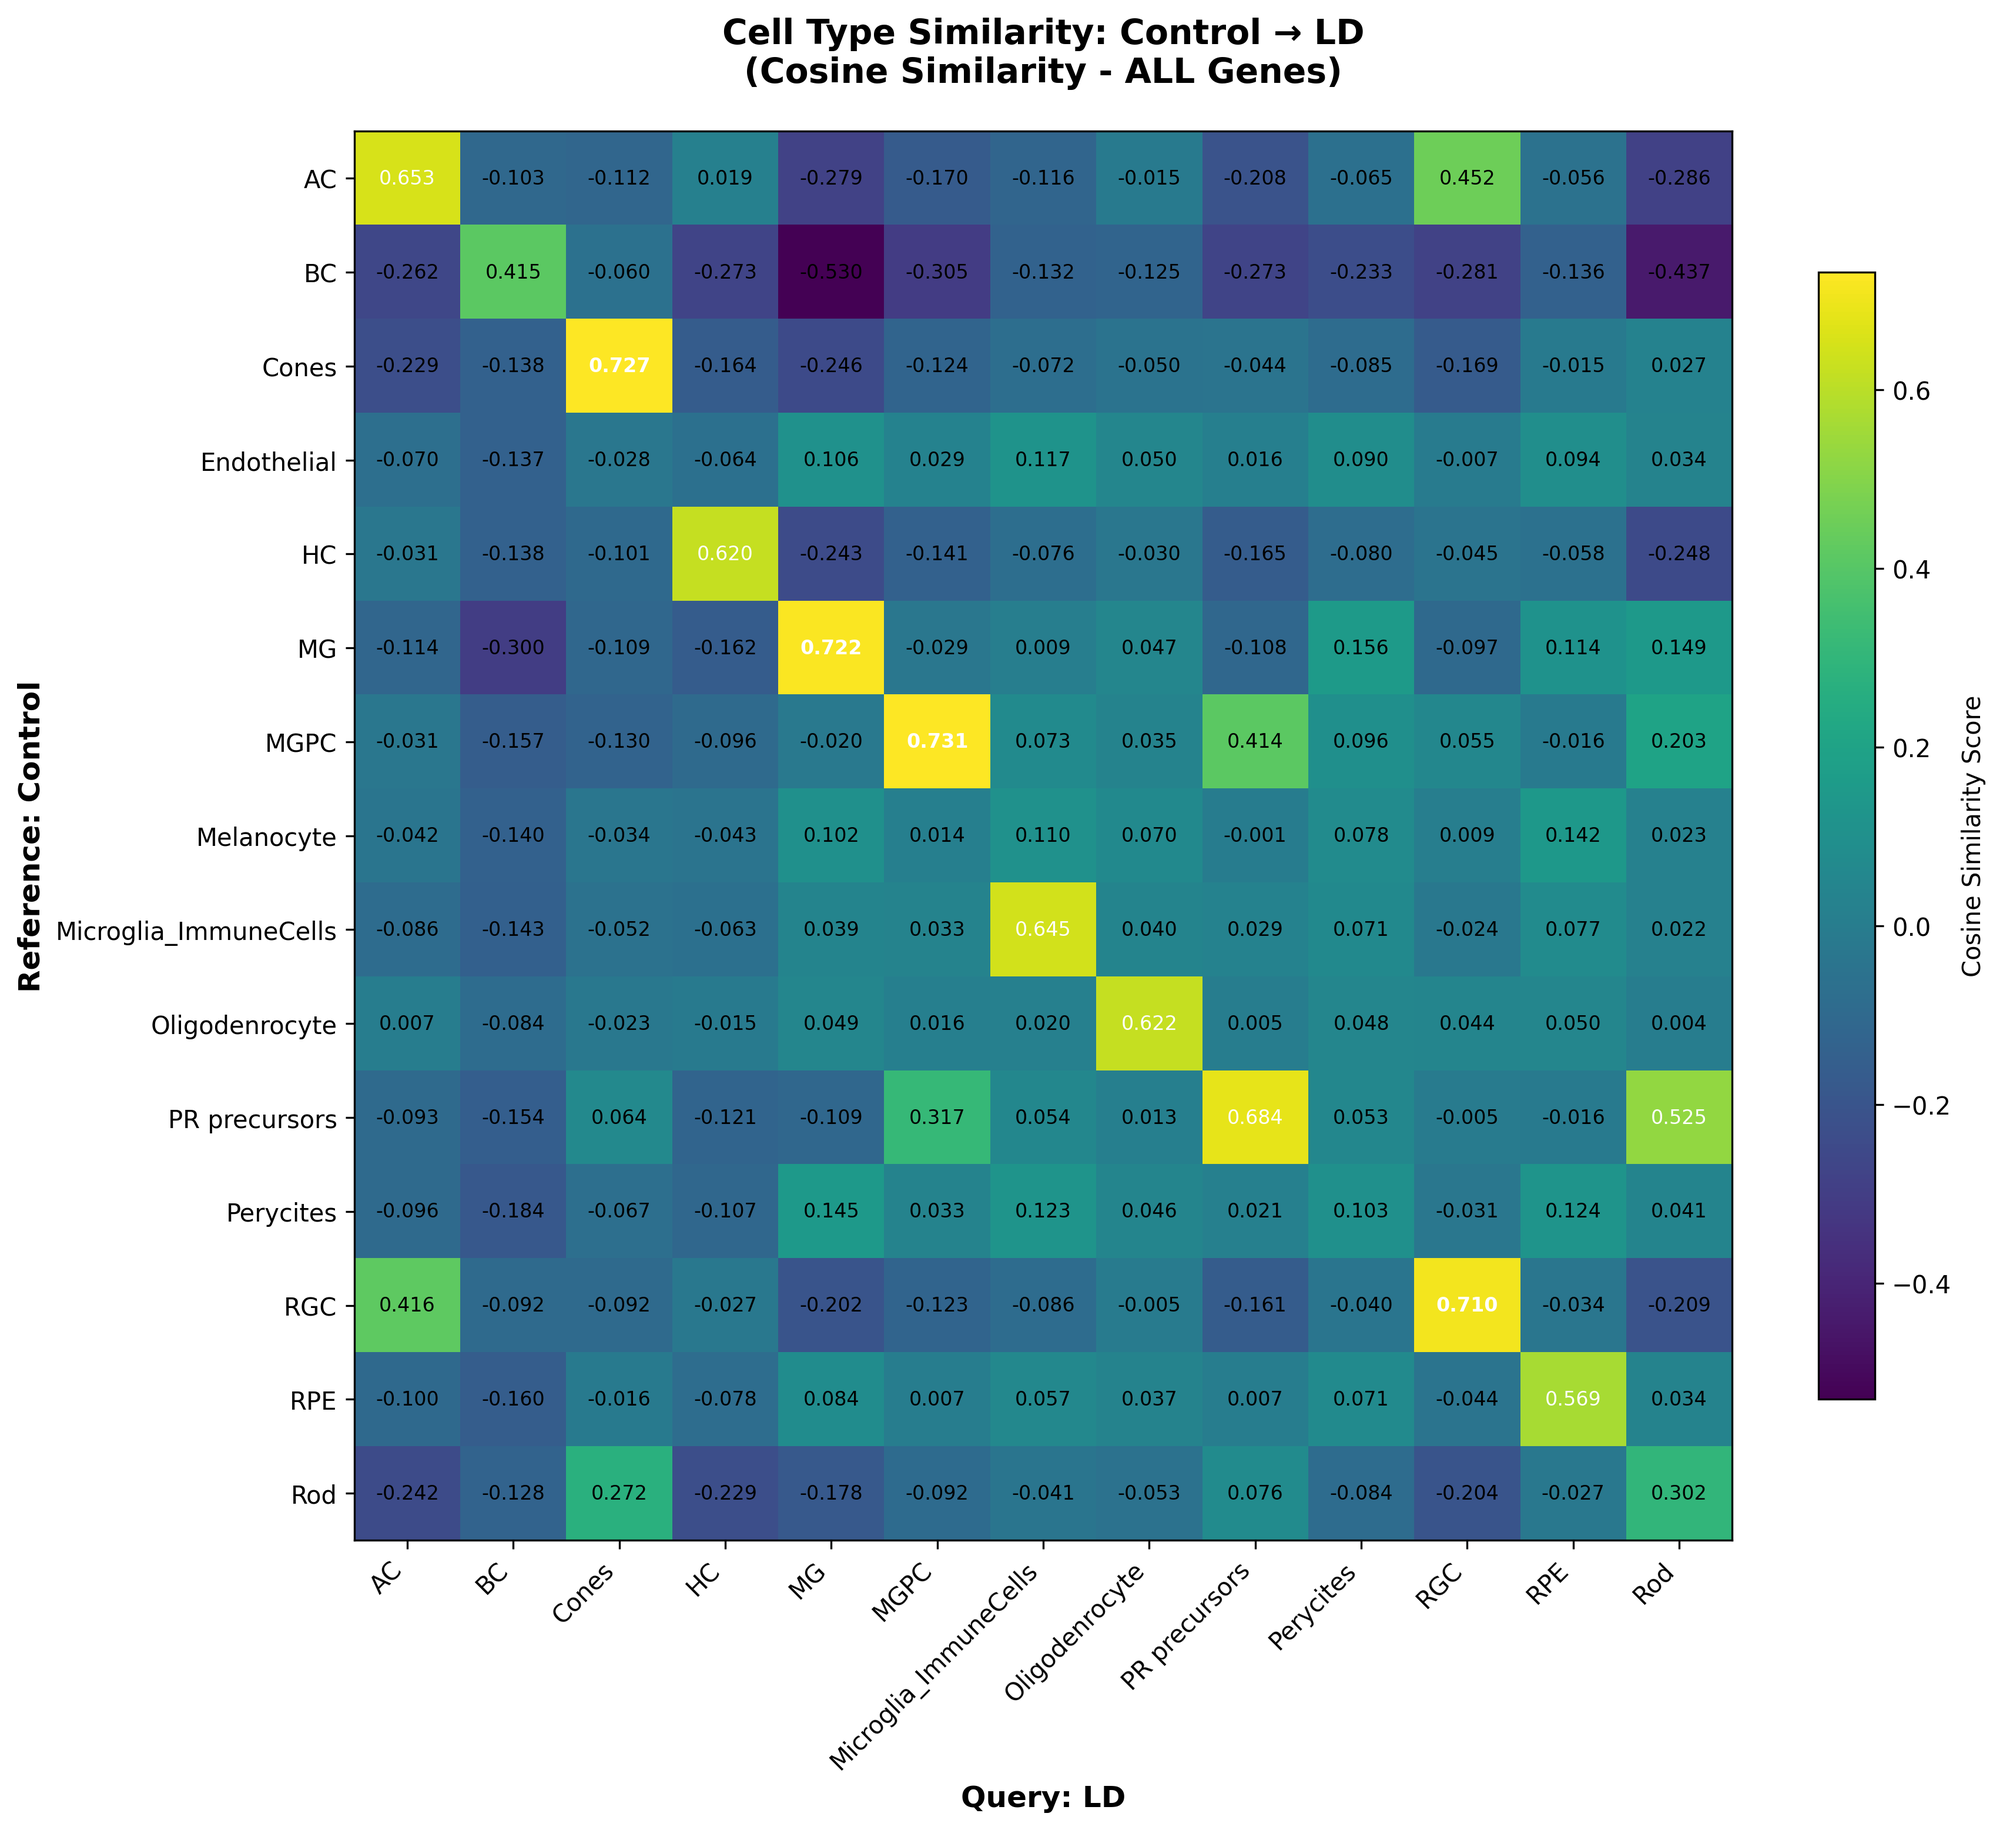
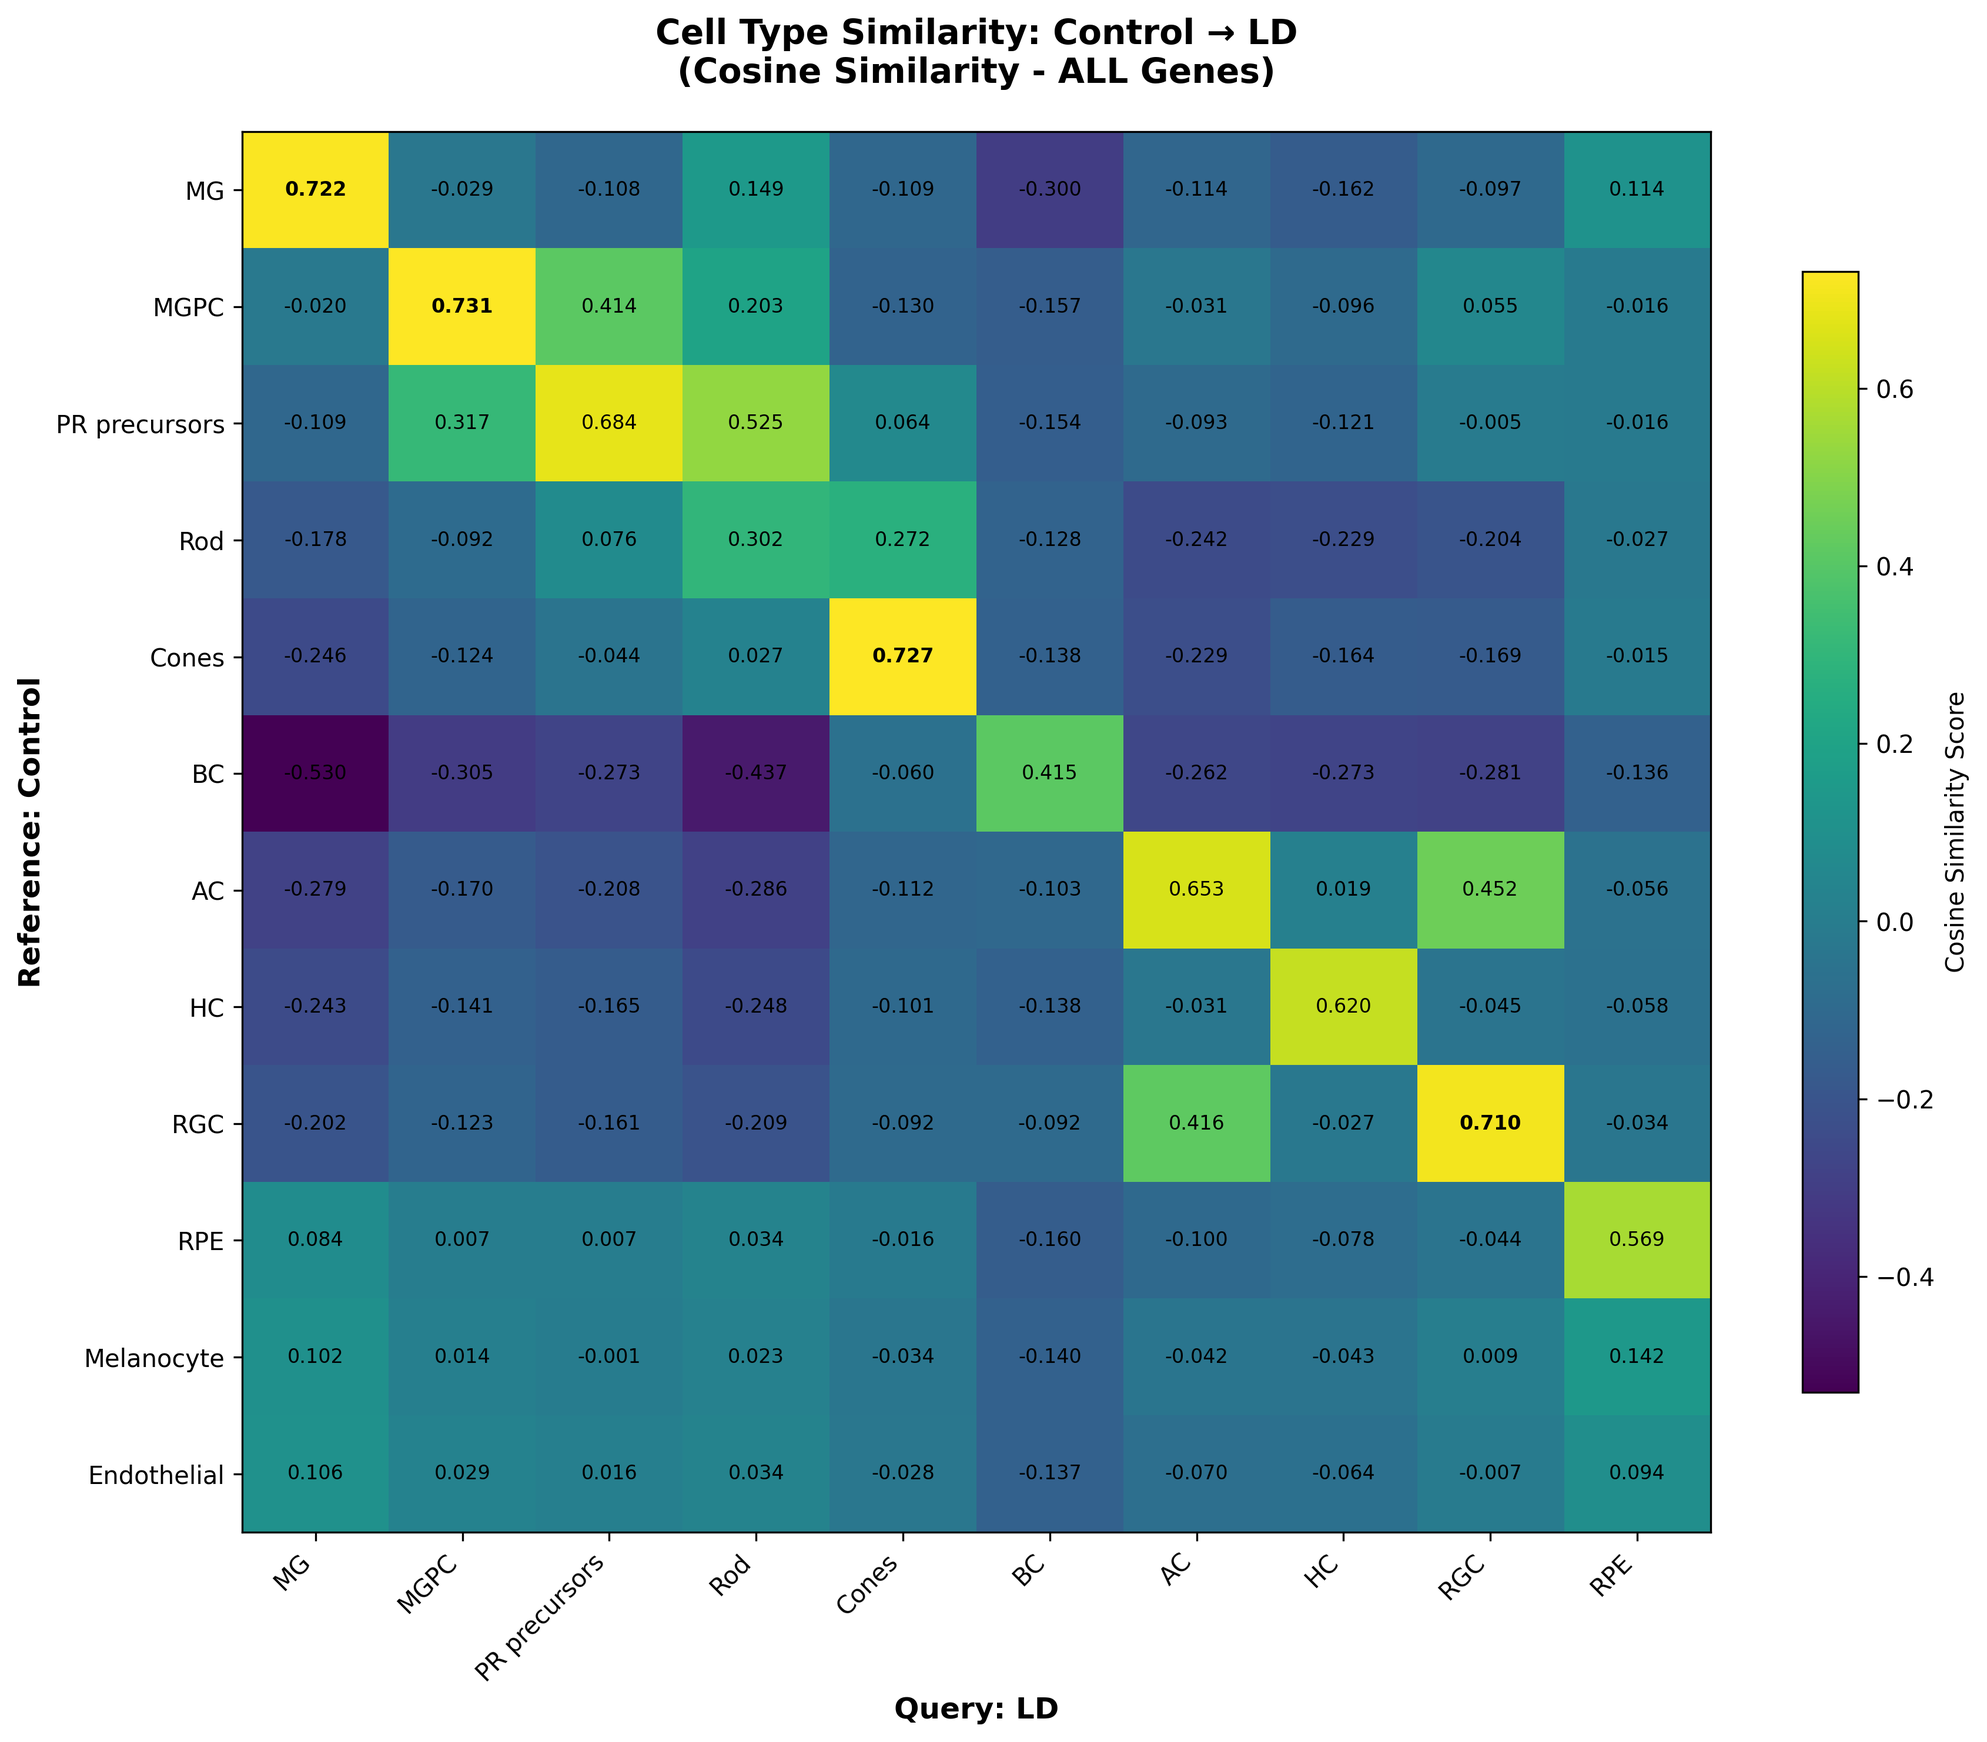
Update Cosine sim plots

diff --git a/compare_cosine.py b/compare_cosine.py
@@ -49,7 +49,7 @@ def calculate_cosine_similarity_sparse(X_ref, X_query, ref_labels, query_labels)
             # Reshape for cosine similarity
             ref_vec = ref_profiles[ref_ct].reshape(1, -1)
             query_vec = query_profiles[query_ct].reshape(1, -1)
-            
+
             # Calculate cosine similarity
             similarity = cosine_similarity(ref_vec, query_vec)[0, 0]
             similarity_matrix[i, j] = similarity
@@ -99,7 +99,7 @@ def main():
     print("Keeping data in sparse format for memory efficiency...")
     X_ref = adata_ref.X
     X_query = adata_query.X
-    
+
     # Only convert small profiles to dense, not entire matrices
     if sparse.issparse(X_ref):
         print(f"Reference data is sparse: {X_ref.shape}, density: {X_ref.nnz / (X_ref.shape[0] * X_ref.shape[1]):.4f}")
@@ -113,7 +113,18 @@ def main():
     print("Calculating cosine similarity matrix using sparse operations...")
     ref_cts, query_cts, sim_matrix = calculate_cosine_similarity_sparse(X_ref, X_query, ref_labels, query_labels)
 
+    # Create DataFrame from similarity matrix
     sim_df = pd.DataFrame(sim_matrix, index=ref_cts, columns=query_cts)
+    
+    # REORDER CELL TYPES to match desired order
+    desired_order = ['MG', 'MGPC', 'PR precursors', 'Rod', 'Cones', 'BC', 'AC', 'HC', 'RGC', 'Microglia_Immunecells', 'RPE', 'Melanocyte', 'Endothelial', 'Pericytes', 'Oligodendrocyte']
+    
+    # Filter to include only cell types present in the data but maintain desired order
+    ref_order = [ct for ct in desired_order if ct in ref_cts]
+    query_order = [ct for ct in desired_order if ct in query_cts]
+    
+    # Reorder the similarity matrix
+    sim_df = sim_df.loc[ref_order, query_order]
 
     # Plot heatmap
     print("Plotting similarity matrix...")
@@ -130,13 +141,13 @@ def main():
     plt.ylabel(f"Reference: {args.sample1}", fontsize=12, fontweight='bold')
     plt.title(f"Cell Type Similarity: {args.sample1} → {args.sample2}\n(Cosine Similarity - ALL Genes)", fontsize=14, fontweight='bold', pad=20)
 
-    # Display ALL values
+    # Display ALL values - ALL BLACK FONT
     for i in range(len(sim_df.index)):
         for j in range(len(sim_df.columns)):
             val = sim_df.iloc[i, j]
             plt.text(j, i, f"{val:.3f}",
                      ha="center", va="center",
-                     color="white" if val > 0.5 else "black",
+                     color="black",  # CHANGED: Always use black font
                      fontsize=8 if len(sim_df.index) < 20 else 6,
                      fontweight='bold' if val > 0.7 else 'normal')
 
@@ -158,8 +169,8 @@ def main():
         f.write(f"Query sample: {args.sample2} ({adata_query.shape[0]} cells)\n")
         f.write(f"Number of genes analyzed: {adata_ref.shape[1]}\n")
         f.write("\nCell Types:\n")
-        f.write(f"  Reference: {list(ref_cts)}\n")
-        f.write(f"  Query: {list(query_cts)}\n\n")
+        f.write(f"  Reference: {list(sim_df.index)}\n")  # Updated to show reordered list
+        f.write(f"  Query: {list(sim_df.columns)}\n\n")  # Updated to show reordered list
         f.write("Top similarities (cosine > 0.7):\n")
         count_high = 0
         for i in range(len(sim_df.index)):
@@ -171,10 +182,10 @@ def main():
 
         f.write(f"\nStatistics:\n")
         f.write(f"  Number of strong similarities (>0.7): {count_high}\n")
-        f.write(f"  Average similarity: {np.nanmean(sim_matrix):.4f}\n")
-        f.write(f"  Median similarity: {np.nanmedian(sim_matrix):.4f}\n")
-        f.write(f"  Minimum similarity: {np.nanmin(sim_matrix):.4f}\n")
-        f.write(f"  Maximum similarity: {np.nanmax(sim_matrix):.4f}\n")
+        f.write(f"  Average similarity: {np.nanmean(sim_df.values):.4f}\n")
+        f.write(f"  Median similarity: {np.nanmedian(sim_df.values):.4f}\n")
+        f.write(f"  Minimum similarity: {np.nanmin(sim_df.values):.4f}\n")
+        f.write(f"  Maximum similarity: {np.nanmax(sim_df.values):.4f}\n")
 
     print(f"✓ Saved report to: {report_path}")
     print(f"\n✅ DONE: {args.out}")

diff --git a/README.md b/README.md
@@ -53,10 +53,11 @@ LD macrophages:
 
 Cosine similarity = **0.94** → Very similar gene ranking and proportional usage despite stress  
 
-![Cosine Ctrl vs LD](Cosine_Ctrl_LD.png?v=2)
+![Cosine Ctrl vs LD](Cosine_Ctrl_LD.png?v=3)
 
-![Cosine Ctrl vs NMDA](Cosine_Ctrl_NMDA.png?v=2)
+![Cosine Ctrl vs NMDA](Cosine_Ctrl_NMDA.png?v=3)
 
+![Cosine LD vs NMDA](Cosine_LD_NMDA.png?v=2)
 #### Citation 
 
 Watson, E. R., Mora, A., Taherian Fard, A., & Mar, J. C. (2022). How does the structure of data impact cell–cell similarity? Evaluating how structural properties influence the performance of proximity metrics in single cell RNA-seq data. Briefings in bioinformatics, 23(6), bbac387.
